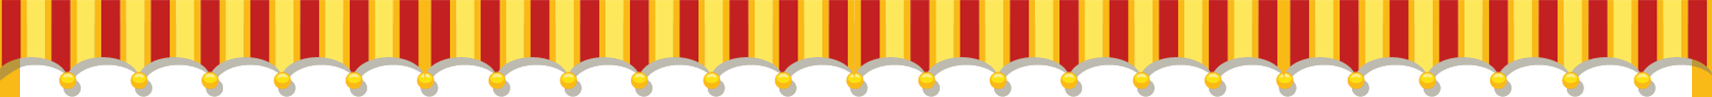
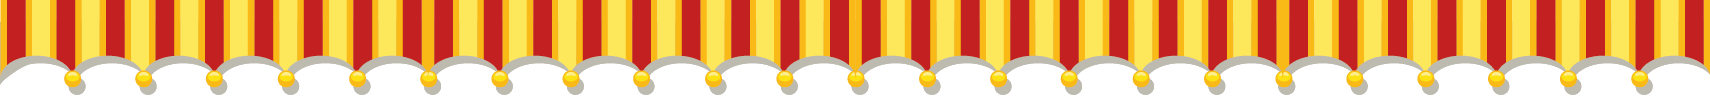
調整qa.html+qa.css

diff --git a/qa.html b/qa.html
@@ -29,19 +29,18 @@
           <div class="d-flex flex-nowrap">
             <div class="qaL"></div>
             <div class="qaM text-start">
-               <h1 class="qa-title fw mb-4 fw-bold">【巧連智數位學習網】Q&A</h1>
-               <!-- 01 -->
-               <p class="qa-q fs-3 fw-bold">Q 巧連智數位學習網會員登入需要付費嗎？</p>
-               <p class="qa-a fs-3 fw-bold">只要是學習版教材的動護，在您收書期間內，就可以登入享用豐富的網站資源！而且完全不需要再支付任何費用。由於是配合當月教材內容進行連動學習，使用權限無法一直保留，如果您不再收學習版或轉版、升級，都不能再使用「巧連智數位學習網」</p>
-               <!-- 02 -->
-               <p class="qa-q fs-3 fw-bold">Q 如果不是巧連智數位學習網會員，可以使用數位學習網嗎？</p>
-               <p class="qa-a fs-3 fw-bold">如果沒有訂閱巧連智「學習版」刊物，仍可至非會員體驗區體驗部分的巧連智數位學習網內容。不過因為沒有會員資格，所以無法登入巧連智數位學習網，絕大部分的網站內容也無法使用了。</p>
+              <h1 class="qa-title fw mb-4 fw-bold">【巧連智數位學習網】Q&amp;A</h1><!-- 01 -->
+              <p class="qa-q fs-3 fw-bold">Q 巧連智數位學習網會員登入需要付費嗎?</p>
+              <p class="qa-a fs-3 fw-bold">只要是學習版教材的訂戶，在您收書期間內，就可以登入享用豐富的網站資源！而且完全不需要再支付任何費用。由於是配合當月教材內容進行連動學習，使用權限無法一直保留，如果您不再收學習版或轉版、升版，都不能再使用「巧連智數位學習網」。</p>
+              <!-- 02 -->
+              <p class="qa-q fs-3 fw-bold">Q 如果不是巧連智數位學習網會員，可以使用數位學習網嗎?</p>
+              <p class="qa-a fs-3 fw-bold">如果沒有訂閱巧連智「學習版」刊物，仍可至非會員體驗區體驗部分的巧連智數位學習網內容。不過因為沒有會員資格，所以無法登入巧連智數位學習網，絕大部分的網頁內容也都無法使用了。</p>
               <!-- 03 -->
-               <p class="qa-q fs-3 fw-bold">Q 巧連智數位學習網美玥內容上線時間</p>
-               <p class="qa-a fs-3 fw-bold">巧連智數位學習網美玥20日上線次月學習內容，若遇假日順延。</p>
+              <p class="qa-q fs-3 fw-bold">Q 巧連智數位學習網每月內容上線時間?</p>
+              <p class="qa-a fs-3 fw-bold">巧連智數位學習網每月20日上線次月學習內容，若遇假日順延。</p>
               <!-- 04 -->
-               <p class="qa-q fs-3 fw-bold">Q 如何取得會員編號及密碼？</p>
-               <p class="qa-a fs-3 fw-bold">只要您現在是學習版教材的訂戶，就可以從寄送教材的信封上找到會員編號，共10碼；而預設密碼在學習活用手冊裡。另外，登入後還可以點選變更密碼，重新設定自己的密碼唷！</p>
+              <p class="qa-q fs-3 fw-bold">Q 如何取得會員編號及密碼?</p>
+              <p class="qa-a fs-3 fw-bold">只要您現在是學習版教材的訂戶，就可從寄送教材的信封上找到會員編號，共10碼；而預設密碼在學習活用手冊裡。另外，登入後還可以點選變更密碼，重新設定自己的密碼唷！</p>
             </div>
             <div class="qaR"></div>
           </div>

diff --git a/qa2.html b/qa2.html
@@ -1,0 +1,52 @@
+<!DOCTYPE html>
+<html lang="zh-Hant">
+  <head>
+    <meta http-equiv="Content-Language" content="zh-tw">
+    <meta http-equiv="Content-type" content="text/html; charset=utf-8">
+    <meta name="viewport" content="width=device-width,initial-scale=1,maximum-scale=1,user-scalable=no,minimal-ui">
+
+    <title>巧連智數位學習網</title>
+
+    <link rel="stylesheet" type="text/css" href="css/public.css">
+    <link rel="stylesheet" type="text/css" href="css/color.css">
+    <link rel="stylesheet" type="text/css" href="css/qa.css">
+
+    <link href="https://cdn.jsdelivr.net/npm/bootstrap@5.0.0/dist/css/bootstrap.min.css" rel="stylesheet" integrity="sha384-wEmeIV1mKuiNpC+IOBjI7aAzPcEZeedi5yW5f2yOq55WWLwNGmvvx4Um1vskeMj0" crossorigin="anonymous">
+    <link rel="stylesheet" href="https://cdn.jsdelivr.net/npm/bootstrap-icons@1.7.2/font/bootstrap-icons.css">
+
+
+    <script language="javascript" type="text/javascript" src="js/jquery-1.12.4.min.js"></script>
+    <script language="javascript" type="text/javascript" src="js/slick.min.js"></script>
+    <script language="javascript" type="text/javascript" src="js/public.js"></script>
+    <script src="js/imgLiquid-min.js"></script>
+  </head>
+
+  <body class="bg_index">
+    <div class="qaBoxs">
+
+      <div class="qaBox">
+        <div><img src="img/qa/qa-h.png" class="img-qah"></div>
+        <div class="qaC p-5">
+          <div class="qaM text-start">
+            <h1 class="qa-title fw mb-4 fw-bold">【巧連智數位學習網】Q&amp;A</h1>
+            <!-- 01 -->
+            <p class="qa-q fs-3 fw-bold">Q 巧連智數位學習網會員登入需要付費嗎?</p>
+            <p class="qa-a fs-3 fw-bold">只要是學習版教材的訂戶，在您收書期間內，就可以登入享用豐富的網站資源！而且完全不需要再支付任何費用。由於是配合當月教材內容進行連動學習，使用權限無法一直保留，如果您不再收學習版或轉版、升版，都不能再使用「巧連智數位學習網」。</p>
+            <!-- 02 -->
+            <p class="qa-q fs-3 fw-bold">Q 如果不是巧連智數位學習網會員，可以使用數位學習網嗎?</p>
+            <p class="qa-a fs-3 fw-bold">如果沒有訂閱巧連智「學習版」刊物，仍可至非會員體驗區體驗部分的巧連智數位學習網內容。不過因為沒有會員資格，所以無法登入巧連智數位學習網，絕大部分的網頁內容也都無法使用了。</p>
+            <!-- 03 -->
+            <p class="qa-q fs-3 fw-bold">Q 巧連智數位學習網每月內容上線時間?</p>
+            <p class="qa-a fs-3 fw-bold">巧連智數位學習網每月20日上線次月學習內容，若遇假日順延。</p>
+            <!-- 04 -->
+            <p class="qa-q fs-3 fw-bold">Q 如何取得會員編號及密碼?</p>
+            <p class="qa-a fs-3 fw-bold">只要您現在是學習版教材的訂戶，就可從寄送教材的信封上找到會員編號，共10碼；而預設密碼在學習活用手冊裡。另外，登入後還可以點選變更密碼，重新設定自己的密碼唷！</p>
+          </div>
+        </div>
+        <div>
+          <img src="img/qa/qa-f.png" class="img-qaf">
+        </div>
+      </div>
+    </div>
+  </body>
+</html>

diff --git a/css/qa.css b/css/qa.css
@@ -30,7 +30,7 @@
 .img-hr { max-width: 150px; }
 @media screen and (max-width: 1024px) and (min-width: 770px) { .img-hr { max-width: 100px; } }
 
-.qaBox { display: inline-block; width: 100%; background-image: url(../img/qa/qa-bg.png); background-repeat: no-repeat; background-size: cover; background-position: center; }
+.qaBox { display: inline-block; width: 100%; background-image: url(../img/qa/bgl.png), url(../img/qa/bgr.png), url(../img/qa/qa-bg.png); background-repeat: repeat-y, repeat-y, no-repeat; background-position: left, right, center; }
 
 .qa-title { color: #3463a6; margin-left: -18px; }
 @media screen and (max-width: 449px) and (min-width: 0) { .qa-title { margin-top: 10px; margin-left: 0; font-size: 1.6rem !important; } }
@@ -45,6 +45,6 @@
 .qaC { display: inline-block; width: 100%; height: 100%; }
 .qaC .qaL, .qaC .qaR, .qaC .qaM { display: inline-block; float: left; }
 .qaC .qaL { width: 20px; background-image: url(../img/qa/bgl.png); background-repeat: repeat-y; }
-.qaC .qaM { width: calc(100% - 20px * 2); padding: 2%; }
+.qaC .qaM { width: 100%; padding: 2%; }
 
 .qaR { width: 20px; background-image: url(../img/qa/bgr.png); background-repeat: repeat-y; }

diff --git a/scss/qa.scss b/scss/qa.scss
@@ -46,10 +46,26 @@
 .qaBox {
 	display: inline-block;
 	width: 100%;
-	background-image: url(../img/qa/qa-bg.png);
-	background-repeat: no-repeat;
-	background-size: cover;
-	background-position: center;
+	// background-image: url(../img/qa/qa-bg.png);
+	// background-repeat: no-repeat;
+	// background-size: cover;
+	// background-position: center;
+
+	// background-image: url(../img/qa/bgl.png);
+	// background-repeat: repeat-y;
+	// background-position: left;
+	 background-image   : url(../img/qa/bgl.png),
+	 url(../img/qa/bgr.png),
+                       url(../img/qa/qa-bg.png);
+                       
+
+  background-repeat  : repeat-y,
+                       repeat-y,
+                       no-repeat;
+
+  background-position: left,
+                       right,
+                       center;
 }
 
 .qa-title {
@@ -98,8 +114,13 @@
 		background-repeat: repeat-y;
 	}
 
+	// .qaM {
+	// 	width: calc(100% - 20px * 2);
+	// 	padding: 2%;
+	// }
+
 	.qaM {
-		width: calc(100% - 20px * 2);
+		width: 100%;
 		padding: 2%;
 	}
 }
